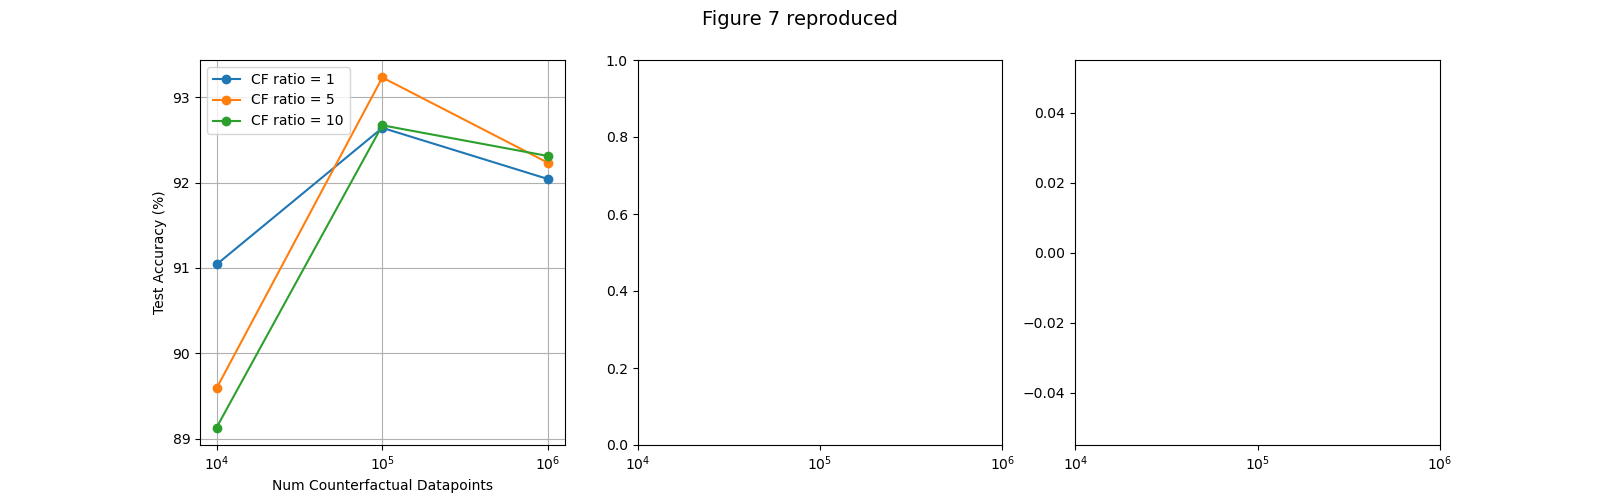
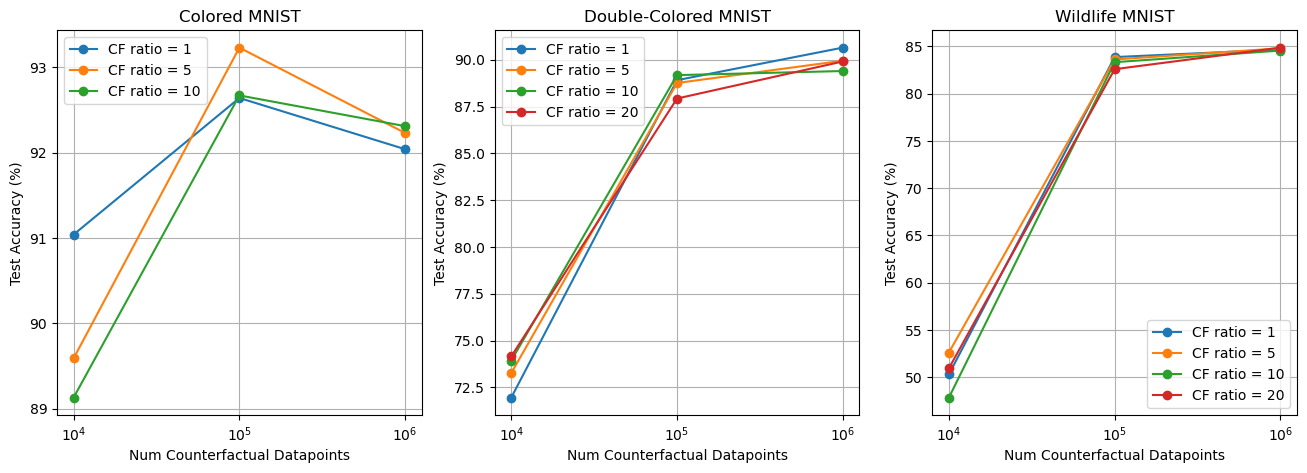
Ran the experiment and recreated the image

diff --git a/experiments/mnist_ablation_study_figure7.py b/experiments/mnist_ablation_study_figure7.py
@@ -25,6 +25,7 @@ from cgn_framework.mnists.train_classifier import main as classifier_main
 
 
 DATASETS = ["colored_MNIST_counterfactual", "double_colored_MNIST_counterfactual", "wildlife_MNIST_counterfactual"]
+DATASET_NAMES = ["Colored MNIST", "Double-Colored MNIST", "Wildlife MNIST"]
 
 def calc_test_accuracy(**kwargs):
     args = dotdict(kwargs)
@@ -33,7 +34,7 @@ def calc_test_accuracy(**kwargs):
 
 def plot_figure7():
     # Load the experiment results from the text file.
-    with open("../experiments/figure7_data/mnist_ablation_study_results2.txt", 'rb') as fp:
+    with open("../experiments/figure7_data/mnist_ablation_study_results.txt", 'rb') as fp:
         results = pickle.load(fp)
 
     CF_ratios = [1, 5, 10, 20]
@@ -41,7 +42,6 @@ def plot_figure7():
 
     fig, axs = plt.subplots(1, 3, figsize=(16,5))
     plt.setp(axs, xticks=[0, 1, 2], xticklabels=[r'$10^4$', r'$10^5$', r'$10^6$'])
-    fig.suptitle('Figure 7 reproduced', fontsize=14)
 
     for i, dataset in enumerate(DATASETS):
         for CF_ratio in CF_ratios:
@@ -56,11 +56,11 @@ def plot_figure7():
             axs[i].plot(np.arange(3), line, label=f'CF ratio = {CF_ratio}', marker='o')
             axs[i].set_xlabel("Num Counterfactual Datapoints")
             axs[i].set_ylabel("Test Accuracy (%)")
-            axs[i].grid()
+            axs[i].grid(True)
             axs[i].legend()
-        break
+        axs[i].set_title(DATASET_NAMES[i])
     plt.plot()
-    plt.savefig('../experiments/figure7_data/figure7_reproduced.png')
+    plt.savefig('../experiments/figure7_data/figure7_reproduced.png', bbox_inches='tight')
 
 
 def main():
